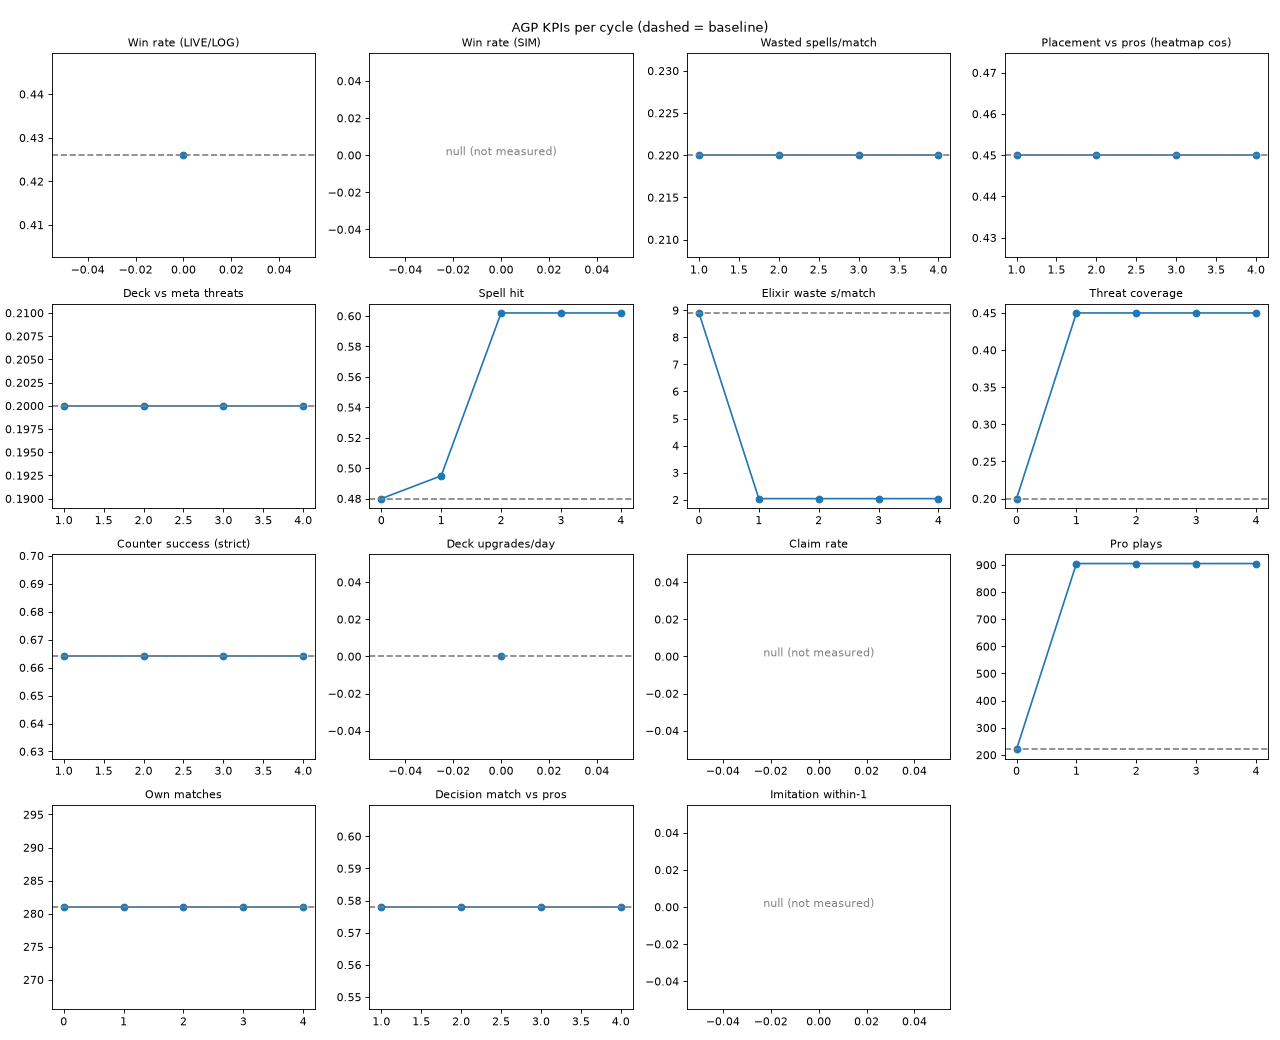
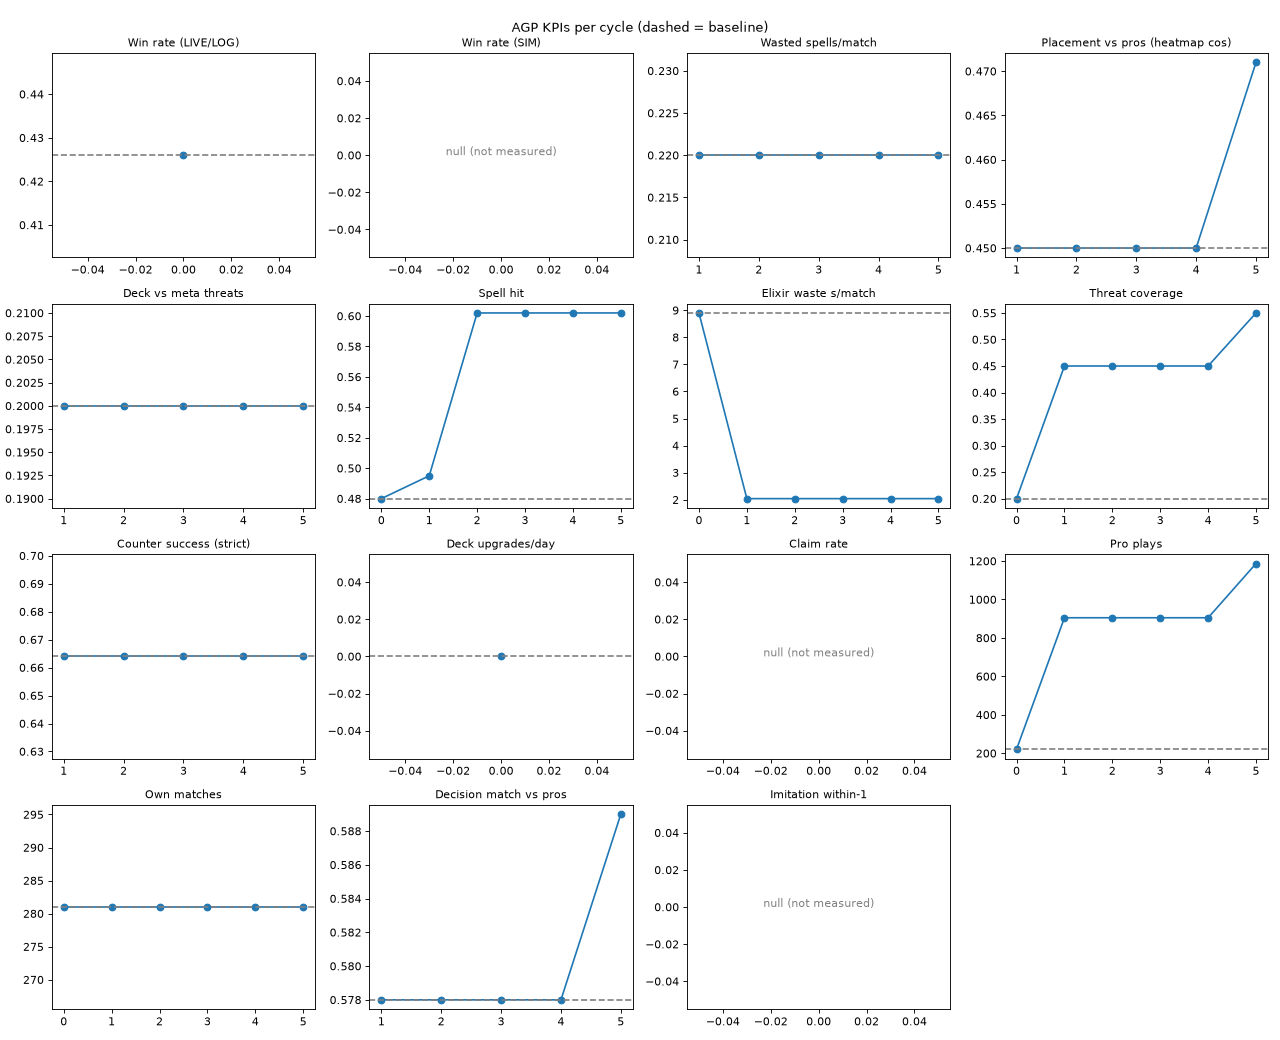
AGP progress dashboard 2026-11-01T02:14:13-08:00

diff --git a/index.html b/index.html
@@ -124,10 +124,10 @@
         <h1>AI Game Player</h1>
         <p class="lede">Progress you can watch — the AI's climb, with receipts.</p>
         <div class="meta-row">
-          <div class="chip">Cycle <strong>#4</strong></div>
-          <div class="chip">Decision <strong>REVERT</strong></div>
+          <div class="chip">Cycle <strong>#5</strong></div>
+          <div class="chip">Decision <strong>KEEP</strong></div>
           <div class="chip">Mode <strong>offline</strong></div>
-          <div class="chip">Updated <strong>2026-11-01T01:37:47-08:00</strong></div>
+          <div class="chip">Updated <strong>2026-11-01T02:11:12-08:00</strong></div>
         </div>
         <p class="lede" style="margin-top:18px;font-size:.92rem">Showing SIM / VOD / LOG metrics. Live ladder KPIs stay blank until play is greenlit — practice win rate is never mixed into live win rate.</p>
       </div>
@@ -151,7 +151,7 @@
               <th>Metric</th><th>Baseline</th><th>Current</th><th>Δ</th><th>Trend</th><th>Source</th>
             </tr>
           </thead>
-          <tbody><tr><td class="kpi-name">Win rate<div class="note">Never mix LIVE with SIM/LOG practice WR</div></td><td class="num">42.6%</td><td class="num cur"><span class="pill paused">paused</span></td><td class="num delta flat">—</td><td><span class="trend flat">flat</span></td><td><span class="src">LIVE</span></td></tr><tr><td class="kpi-name">Spell hit rate</td><td class="num">48.0%</td><td class="num cur"><span class="val">60.2%</span></td><td class="num delta up-good">+12.2 pp</td><td><span class="trend up-good">up</span></td><td><span class="src">SIM</span></td></tr><tr><td class="kpi-name">Elixir waste (s)</td><td class="num">8.9</td><td class="num cur"><span class="val">2.04</span></td><td class="num delta down-good">-6.86</td><td><span class="trend down-good">down</span></td><td><span class="src">SIM</span></td></tr><tr><td class="kpi-name">Meta/ladder threat coverage</td><td class="num">20.0%</td><td class="num cur"><span class="val">45.0%</span></td><td class="num delta up-good">+25.0 pp</td><td><span class="trend up-good">up</span></td><td><span class="src">LOG+VOD</span></td></tr><tr><td class="kpi-name">Counter success (strict)</td><td class="num">—</td><td class="num cur"><span class="val">66.4%</span></td><td class="num delta flat">—</td><td><span class="trend flat">flat</span></td><td><span class="src">LOG</span></td></tr><tr><td class="kpi-name">Deck upgrades / day</td><td class="num">0</td><td class="num cur"><span class="val">—</span></td><td class="num delta flat">—</td><td><span class="trend flat">flat</span></td><td><span class="src">LOG</span></td></tr><tr><td class="kpi-name">Reward claim rate</td><td class="num">—</td><td class="num cur"><span class="val">—</span></td><td class="num delta flat">—</td><td><span class="trend flat">flat</span></td><td><span class="src">—</span></td></tr><tr><td class="kpi-name">Pro plays learned</td><td class="num">221</td><td class="num cur"><span class="val">905</span></td><td class="num delta up-good">+684</td><td><span class="trend up-good">up</span></td><td><span class="src">VOD</span></td></tr><tr><td class="kpi-name">Own-match sample</td><td class="num">281</td><td class="num cur"><span class="val">281</span></td><td class="num delta flat">0</td><td><span class="trend flat">flat</span></td><td><span class="src">LOG</span></td></tr><tr><td class="kpi-name">Decision-match vs pros</td><td class="num">—</td><td class="num cur"><span class="val">57.8%</span></td><td class="num delta flat">—</td><td><span class="trend flat">flat</span></td><td><span class="src">SIM</span></td></tr><tr><td class="kpi-name">Imitation placement accuracy</td><td class="num">0.23–0.31</td><td class="num cur"><span class="val">—</span></td><td class="num delta flat">—</td><td><span class="trend flat">flat</span></td><td><span class="src">SIM</span></td></tr><tr><td class="kpi-name">Placement accuracy (SIM)</td><td class="num">—</td><td class="num cur"><span class="val">45.0%</span></td><td class="num delta flat">—</td><td><span class="trend flat">flat</span></td><td><span class="src">SIM+VOD</span></td></tr><tr><td class="kpi-name">Deck building vs meta</td><td class="num">—</td><td class="num cur"><span class="val">20.0%</span></td><td class="num delta flat">—</td><td><span class="trend flat">flat</span></td><td><span class="src">LOG+WEB</span></td></tr></tbody>
+          <tbody><tr><td class="kpi-name">Win rate<div class="note">Never mix LIVE with SIM/LOG practice WR</div></td><td class="num">42.6%</td><td class="num cur"><span class="pill paused">paused</span></td><td class="num delta flat">—</td><td><span class="trend flat">flat</span></td><td><span class="src">LIVE</span></td></tr><tr><td class="kpi-name">Spell hit rate</td><td class="num">48.0%</td><td class="num cur"><span class="val">60.2%</span></td><td class="num delta up-good">+12.2 pp</td><td><span class="trend up-good">up</span></td><td><span class="src">SIM</span></td></tr><tr><td class="kpi-name">Elixir waste (s)</td><td class="num">8.9</td><td class="num cur"><span class="val">2.04</span></td><td class="num delta down-good">-6.86</td><td><span class="trend down-good">down</span></td><td><span class="src">SIM</span></td></tr><tr><td class="kpi-name">Meta/ladder threat coverage</td><td class="num">20.0%</td><td class="num cur"><span class="val">55.0%</span></td><td class="num delta up-good">+35.0 pp</td><td><span class="trend up-good">up</span></td><td><span class="src">LOG+VOD</span></td></tr><tr><td class="kpi-name">Counter success (strict)</td><td class="num">—</td><td class="num cur"><span class="val">66.4%</span></td><td class="num delta flat">—</td><td><span class="trend flat">flat</span></td><td><span class="src">LOG</span></td></tr><tr><td class="kpi-name">Deck upgrades / day</td><td class="num">0</td><td class="num cur"><span class="val">—</span></td><td class="num delta flat">—</td><td><span class="trend flat">flat</span></td><td><span class="src">LOG</span></td></tr><tr><td class="kpi-name">Reward claim rate</td><td class="num">—</td><td class="num cur"><span class="val">—</span></td><td class="num delta flat">—</td><td><span class="trend flat">flat</span></td><td><span class="src">—</span></td></tr><tr><td class="kpi-name">Pro plays learned</td><td class="num">221</td><td class="num cur"><span class="val">1187</span></td><td class="num delta up-good">+966</td><td><span class="trend up-good">up</span></td><td><span class="src">VOD</span></td></tr><tr><td class="kpi-name">Own-match sample</td><td class="num">281</td><td class="num cur"><span class="val">281</span></td><td class="num delta flat">0</td><td><span class="trend flat">flat</span></td><td><span class="src">LOG</span></td></tr><tr><td class="kpi-name">Decision-match vs pros</td><td class="num">—</td><td class="num cur"><span class="val">58.9%</span></td><td class="num delta flat">—</td><td><span class="trend flat">flat</span></td><td><span class="src">SIM</span></td></tr><tr><td class="kpi-name">Imitation placement accuracy</td><td class="num">0.23–0.31</td><td class="num cur"><span class="val">—</span></td><td class="num delta flat">—</td><td><span class="trend flat">flat</span></td><td><span class="src">SIM</span></td></tr><tr><td class="kpi-name">Placement accuracy (SIM)</td><td class="num">—</td><td class="num cur"><span class="val">47.1%</span></td><td class="num delta flat">—</td><td><span class="trend flat">flat</span></td><td><span class="src">SIM+VOD</span></td></tr><tr><td class="kpi-name">Deck building vs meta</td><td class="num">—</td><td class="num cur"><span class="val">20.0%</span></td><td class="num delta flat">—</td><td><span class="trend flat">flat</span></td><td><span class="src">LOG+WEB</span></td></tr></tbody>
         </table>
       </div>
     </section>
@@ -163,7 +163,7 @@
           <p>Placement, deck quality, counters, spell aim, elixir, upgrades</p>
         </div>
       </div>
-      <div class="axes"><div class="axis-card"><div class="axis-label">Placement accuracy</div><div class="axis-value">45.0%</div><div class="axis-meta"><span class="src">SIM+VOD</span> · SIM heatmap / VOD overlays</div></div><div class="axis-card"><div class="axis-label">Deck building vs meta</div><div class="axis-value">20.0%</div><div class="axis-meta"><span class="src">LOG+WEB</span> · Alignment to seen-opponent / meta plans</div></div><div class="axis-card"><div class="axis-label">Counters</div><div class="axis-value">66.4%</div><div class="axis-meta"><span class="src">LOG</span> · Strict counter success</div></div><div class="axis-card"><div class="axis-label">Spell aim</div><div class="axis-value">60.2%</div><div class="axis-meta"><span class="src">SIM</span> · Spell impact audit / SIM casts</div></div><div class="axis-card"><div class="axis-label">Movement / elixir</div><div class="axis-value">2.04</div><div class="axis-meta"><span class="src">SIM</span> · Seconds elixir wasted (lower better)</div></div><div class="axis-card"><div class="axis-label">Upgrades / rewards</div><div class="axis-value">paused</div><div class="axis-meta"><span class="src">LIVE</span> · LIVE paused until James greenlights play</div></div></div>
+      <div class="axes"><div class="axis-card"><div class="axis-label">Placement accuracy</div><div class="axis-value">47.1%</div><div class="axis-meta"><span class="src">SIM+VOD</span> · SIM heatmap / VOD overlays</div></div><div class="axis-card"><div class="axis-label">Deck building vs meta</div><div class="axis-value">20.0%</div><div class="axis-meta"><span class="src">LOG+WEB</span> · Alignment to seen-opponent / meta plans</div></div><div class="axis-card"><div class="axis-label">Counters</div><div class="axis-value">66.4%</div><div class="axis-meta"><span class="src">LOG</span> · Strict counter success</div></div><div class="axis-card"><div class="axis-label">Spell aim</div><div class="axis-value">60.2%</div><div class="axis-meta"><span class="src">SIM</span> · Spell impact audit / SIM casts</div></div><div class="axis-card"><div class="axis-label">Movement / elixir</div><div class="axis-value">2.04</div><div class="axis-meta"><span class="src">SIM</span> · Seconds elixir wasted (lower better)</div></div><div class="axis-card"><div class="axis-label">Upgrades / rewards</div><div class="axis-value">paused</div><div class="axis-meta"><span class="src">LIVE</span> · LIVE paused until James greenlights play</div></div></div>
     </section>
 
     <section>
@@ -203,7 +203,7 @@
     </footer>
   </div>
 <script>
-const HIST = [{"cycle": 0, "spell_hit": 0.48, "counter": null, "placement": null, "decision": null, "elixir": 8.9, "decision_tag": "BASELINE"}, {"cycle": 1, "spell_hit": 0.495, "counter": 0.664, "placement": 0.45, "decision": 0.578, "elixir": 2.04, "decision_tag": "KEEP"}, {"cycle": 2, "spell_hit": 0.602, "counter": 0.664, "placement": 0.45, "decision": 0.578, "elixir": 2.04, "decision_tag": "REVERT"}, {"cycle": 3, "spell_hit": 0.602, "counter": 0.664, "placement": 0.45, "decision": 0.578, "elixir": 2.04, "decision_tag": "KEEP"}, {"cycle": 4, "spell_hit": 0.602, "counter": 0.664, "placement": 0.45, "decision": 0.578, "elixir": 2.04, "decision_tag": "REVERT"}];
+const HIST = [{"cycle": 0, "spell_hit": 0.48, "counter": null, "placement": null, "decision": null, "elixir": 8.9, "decision_tag": "BASELINE"}, {"cycle": 1, "spell_hit": 0.495, "counter": 0.664, "placement": 0.45, "decision": 0.578, "elixir": 2.04, "decision_tag": "KEEP"}, {"cycle": 2, "spell_hit": 0.602, "counter": 0.664, "placement": 0.45, "decision": 0.578, "elixir": 2.04, "decision_tag": "REVERT"}, {"cycle": 3, "spell_hit": 0.602, "counter": 0.664, "placement": 0.45, "decision": 0.578, "elixir": 2.04, "decision_tag": "KEEP"}, {"cycle": 4, "spell_hit": 0.602, "counter": 0.664, "placement": 0.45, "decision": 0.578, "elixir": 2.04, "decision_tag": "REVERT"}, {"cycle": 5, "spell_hit": 0.602, "counter": 0.664, "placement": 0.471, "decision": 0.589, "elixir": 2.04, "decision_tag": "KEEP"}];
 function drawLine(canvas, series, colors) {
   const dpr = window.devicePixelRatio || 1;
   const rect = canvas.getBoundingClientRect();
